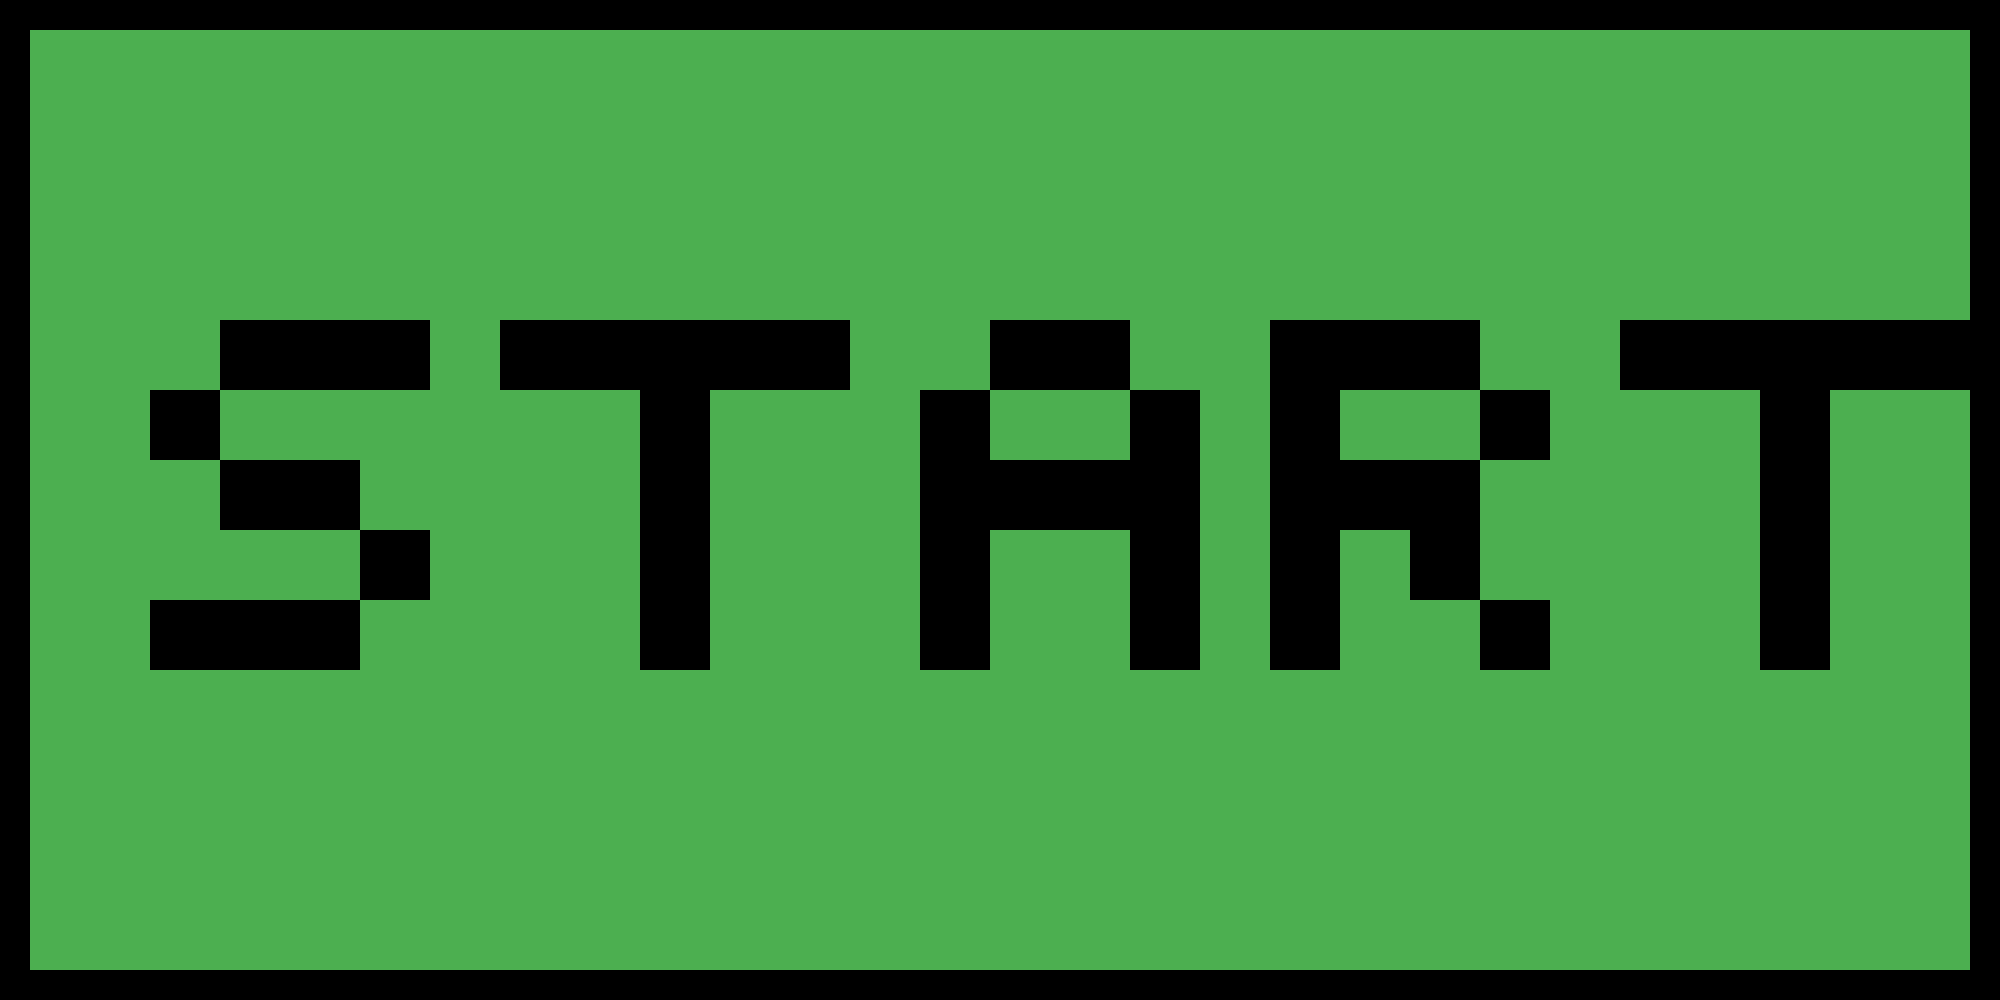
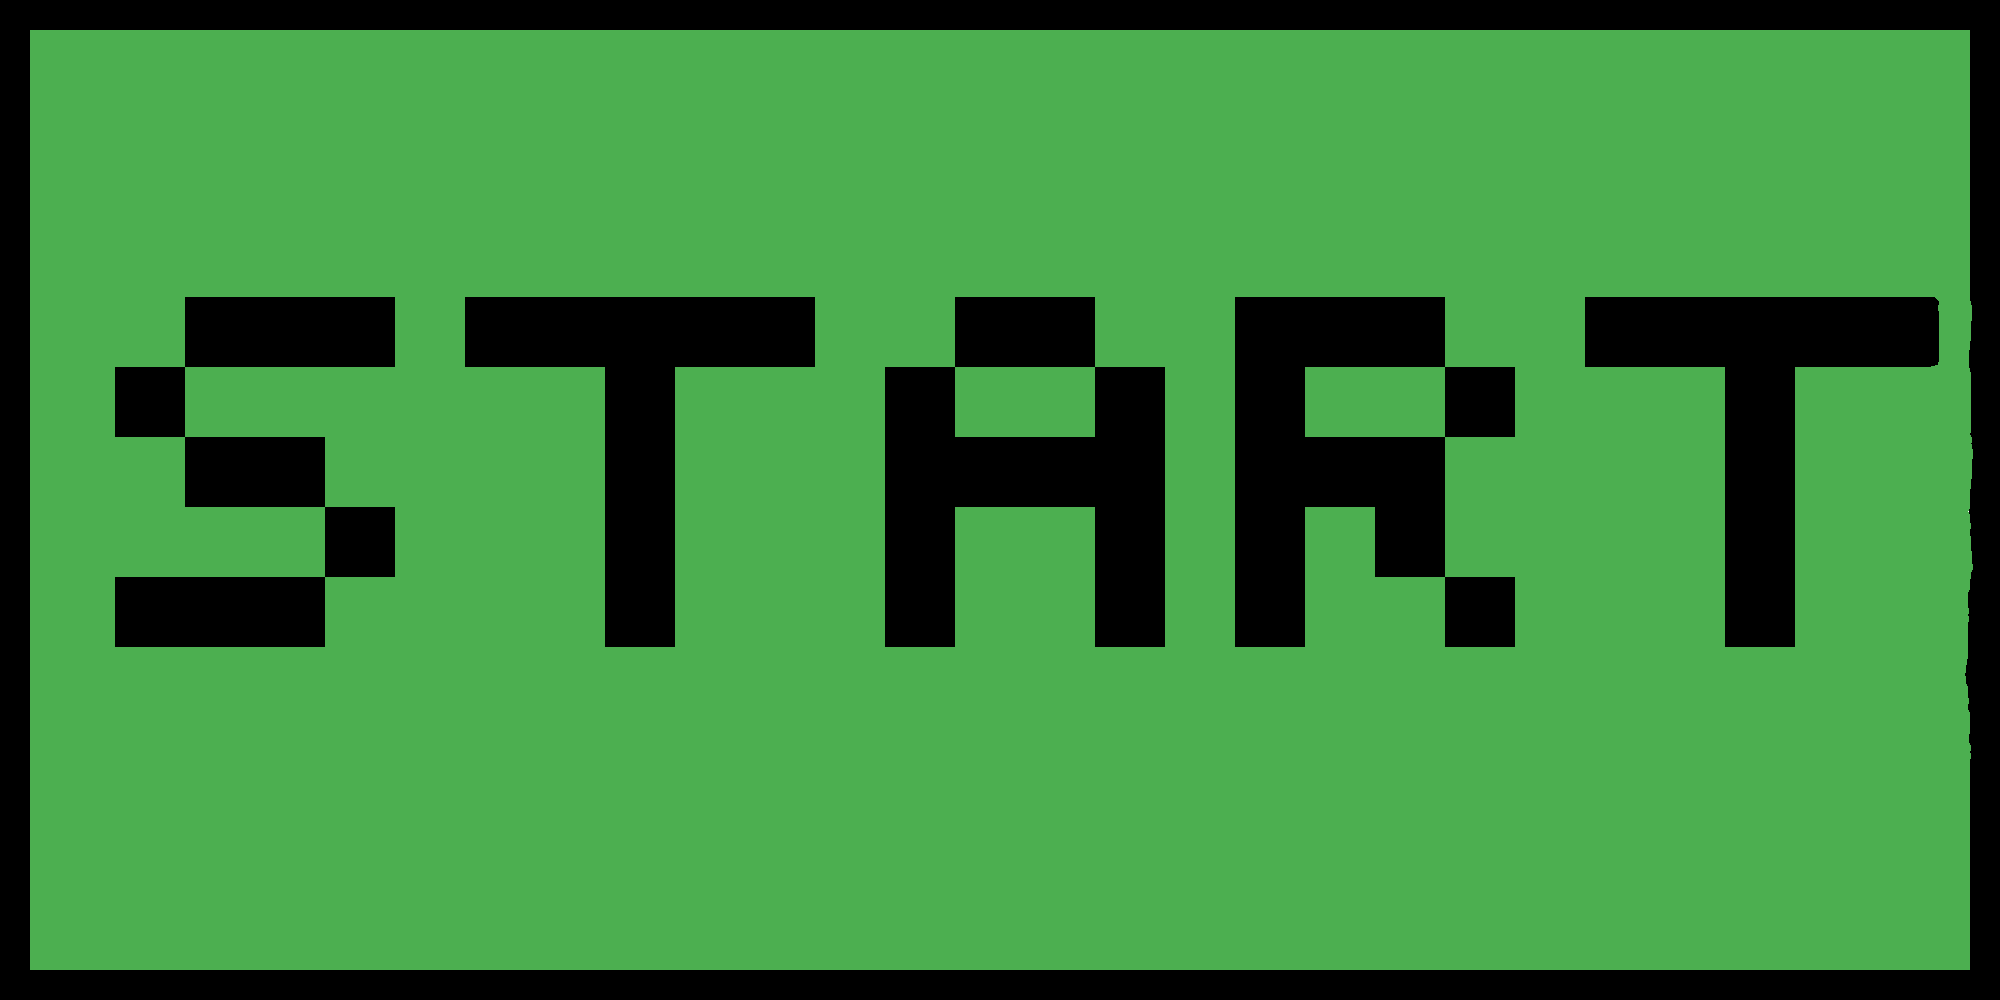
Megcsináltam :)

Changed region(s): [[0.031, 0.279, 0.775, 0.682], [0.775, 0.279, 0.992, 0.682]]

diff --git a/HawkProductions/MenuStage.py b/HawkProductions/MenuStage.py
@@ -11,12 +11,17 @@ class MenuStage(game.scene2d.MyStage):
 
     def __init__(self):
         super().__init__()
+        self.t = Title()
         self.h1 = Startb()
         self.h2 = Exit()
         self.b = Anything()
+        self.add_actor(self.t)
         self.add_actor(self.h1)
         self.add_actor(self.h2)
         self.add_actor(self.b)
+
+        self.t.width = 1300
+
         self.h1.x = 525
         self.h1.y = 250
         self.h1.w = 200
@@ -31,9 +36,8 @@ class MenuStage(game.scene2d.MyStage):
 
         self.i = Info()
         self.add_actor(self.i)
-        self.i.width = 250
         self.i.y = 400
-        self.i.x = 500
+        self.i.x = 523
 
         #self.s.set_on_mouse_down_listener(self.click3)
 

diff --git a/HawkProductions/SelectStage.py b/HawkProductions/SelectStage.py
@@ -13,17 +13,18 @@ class SelectStgage(game.scene2d.MyStage):
         self.add_actor(self.D)
         self.D.x = 530
         self.D.y = 250
+        self.D.width = 200
 
         self.t = Arrow()
         self.add_actor(self.t)
         self.t.set_on_mouse_down_listener(self.click)
         self.t.w = 125
 
-        self.t1 = Arial()
+        self.t1 = Sellect()
         self.add_actor(self.t1)
-        self.t1.set_text("Select")
+        self.t1.width = 200
         self.t1.x = 530
-        self.t1.y = 450
+        self.t1.y = 400
         self.t1.set_on_mouse_down_listener(self.click1)
 
         self.arrow = Arrow()

diff --git a/HawkProductions/Actors.py b/HawkProductions/Actors.py
@@ -1,5 +1,12 @@
 import game
 
+class Sellect(game.scene2d.MyActor):
+    def __init__(self):
+        super().__init__("image/sellect.png")
+
+class Title(game.scene2d.MyActor):
+    def __init__(self):
+        super().__init__("image/title.png")
 
 class Startb(game.scene2d.MyActor):
 

diff --git a/HawkProductions/Menu.py b/HawkProductions/Menu.py
@@ -7,5 +7,4 @@ class Menu(game.scene2d.MyGame):
         super().__init__()
         self.screen = MenuScreen()
 
-
 Menu().run()
